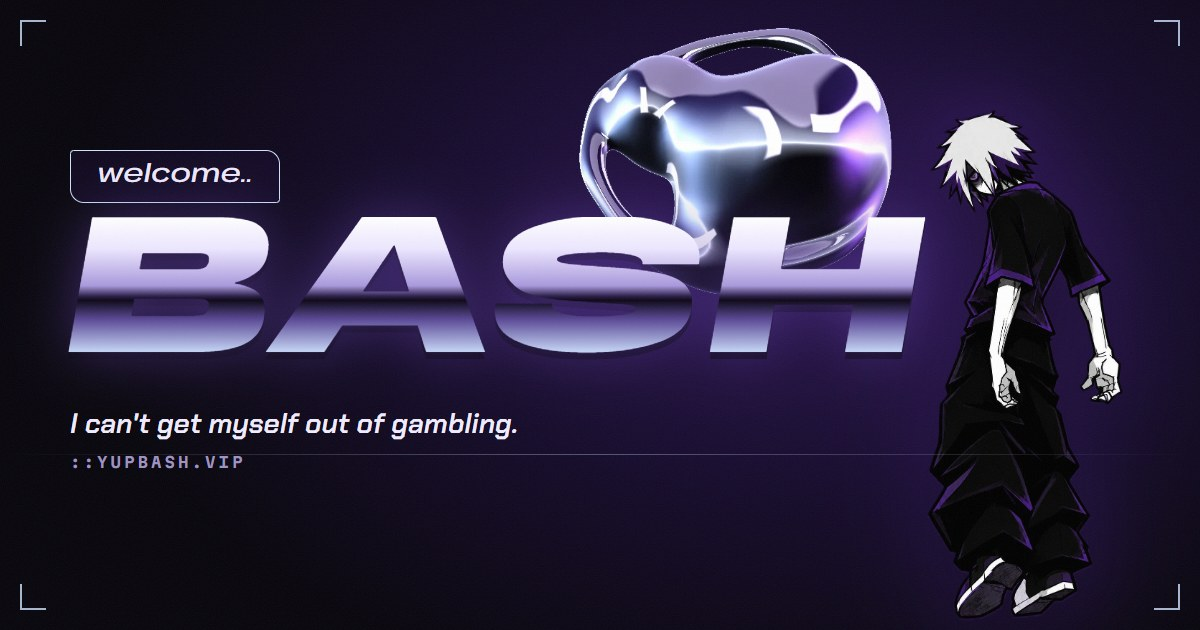
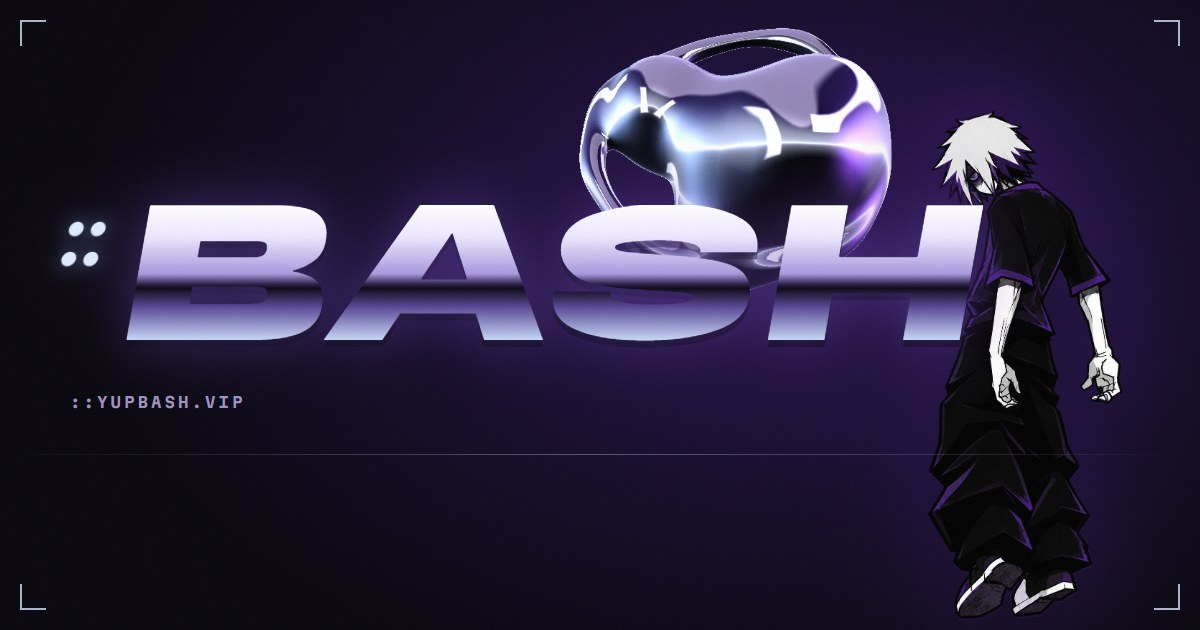
Minimal ':: START' gate button and a cleaner hero (phase 3 feedback)

Changed region(s): [[0.0308, 0.2413, 0.8325, 0.573], [0.0617, 0.6032, 0.4317, 0.6937], [0.0617, 0.7238, 0.2158, 0.754]]

diff --git a/assets/css/base.css b/assets/css/base.css
@@ -213,16 +213,26 @@ html.menu-open .menu-list li:nth-child(5){animation-delay:.2s}
 .gate-c.d{right:18px;bottom:18px;border-bottom-width:1.5px;border-right-width:1.5px;transform-origin:100% 100%}
 .gate.booting .gate-c{transform:scale(1.6)}
 .gate-inner{display:flex;flex-direction:column;align-items:center;gap:34px;text-align:center}
-.gate-tab{margin:0;padding:7px 26px 8px;border:1.5px solid var(--nc-accent);border-radius:4px 14px 4px 14px;background:var(--nc-tabfill);
-  font-family:var(--nc-font-display);font-style:italic;font-stretch:130%;font-weight:500;font-size:clamp(15px,1.6vw,22px)}
-.gate-enter{font-size:clamp(16px,1.6vw,20px);animation:ncPulse 2.2s ease-in-out infinite}
-@keyframes ncPulse{0%,100%{box-shadow:0 0 0 0 rgba(207,226,255,0),0 12px 40px -12px var(--nc-accent-glow)}50%{box-shadow:0 0 0 8px rgba(207,226,255,.08),0 12px 50px -8px var(--nc-accent-glow)}}
+/* ":: ▷START" — wordmark-style button: chrome dots, an outlined play triangle that breathes, START in chrome type. */
+.gate-start{display:inline-flex;align-items:center;gap:.14em;padding:.12em .2em;border:0;background:none;color:var(--nc-ink);cursor:pointer;
+  font-family:var(--nc-font-display);font-style:italic;font-stretch:150%;font-weight:900;font-size:clamp(46px,7.4vw,104px);line-height:.9;letter-spacing:-.02em;
+  filter:drop-shadow(0 0 24px rgba(139,92,246,.35)) drop-shadow(0 5px 0 rgba(0,0,0,.55))}
+.gate-colons{flex:none;width:.2em;height:.27em;margin-right:.06em;fill:url(#g-ice);transform:skewX(-14deg);filter:drop-shadow(0 0 8px var(--nc-accent-glow))}
+.gate-play{flex:none;width:.52em;height:.6em;overflow:visible;transform:skewX(-8deg);transition:transform .35s var(--nc-ease)}
+.gate-play path{fill:transparent;stroke:var(--nc-accent);stroke-width:2.2;stroke-linejoin:round;vector-effect:non-scaling-stroke;
+  filter:drop-shadow(0 0 6px var(--nc-accent-glow));transition:fill .3s;animation:ncBreathe 2.4s ease-in-out infinite}
+@keyframes ncBreathe{50%{opacity:.35}}
+.gate-start-word{display:block;padding-right:.06em}
+.gate-start:hover .gate-play,.gate-start:focus-visible .gate-play{transform:skewX(-8deg) translateX(.08em)}
+.gate-start:hover .gate-play path{fill:var(--nc-accent);animation:none}
+.gate-start:focus-visible .gate-play path{animation:none}
+.gate-start:focus-visible{outline:none}
 .gate-silent{padding:6px 10px;border:0;background:none;color:var(--nc-hud);cursor:pointer;
   font:500 10.5px/1 var(--nc-font-mono);letter-spacing:.18em;text-transform:uppercase;text-decoration:underline;text-underline-offset:4px}
 .gate-silent:hover{color:var(--nc-accent)}
 .gate-boot{min-height:7.6em;min-width:17em;margin:0;font:500 11px/1.5 var(--nc-font-mono);letter-spacing:.06em;color:var(--nc-accent);text-align:left;white-space:pre;
   text-shadow:0 0 8px var(--nc-accent-glow)}
-.gate.booting .gate-enter,.gate.booting .gate-silent,.gate.booting .gate-tab{opacity:0;pointer-events:none;transition:opacity .25s}
+.gate.booting .gate-start,.gate.booting .gate-silent{opacity:0;pointer-events:none;transition:opacity .25s}
 .gate.dropping{background:rgba(6,4,11,.35)}
 .gate.leaving{opacity:0}
 @media (prefers-reduced-motion:reduce){

diff --git a/assets/css/home.css b/assets/css/home.css
@@ -12,14 +12,6 @@ main{position:relative;z-index:2}
 /* ============ 01 · HOME ============ */
 .sec-home{overflow:hidden;padding-top:0;padding-bottom:0}
 .hero{position:relative;z-index:3;width:min(64vw,1000px)}
-.tabrow{display:flex;align-items:center}
-.tab{
-  position:relative;padding:8px 30px 9px 36px;white-space:nowrap;color:var(--nc-ink);
-  font-family:var(--nc-font-display);font-style:italic;font-stretch:130%;font-weight:500;font-size:clamp(14px,1.45vw,22px);
-}
-.tab svg{position:absolute;inset:0;width:100%;height:100%;overflow:visible;z-index:-1}
-.tab path{fill:var(--nc-tabfill);stroke:var(--nc-accent);stroke-width:1.5;vector-effect:non-scaling-stroke}
-.tabline{flex:1;height:1.5px;margin-left:-1px;background:linear-gradient(90deg,var(--nc-accent),transparent)}
 .word{
   position:relative;display:flex;align-items:flex-start;margin:10px 0 0 -.03em;user-select:none;
   font-family:var(--nc-font-display);font-style:italic;font-stretch:150%;font-weight:900;
@@ -34,9 +26,6 @@ main{position:relative;z-index:2}
 .word .wstroke{-webkit-text-stroke:1.4px rgba(255,255,255,.32)}
 .word .spec{mix-blend-mode:overlay;-webkit-background-clip:text;background-clip:text;
   background-image:radial-gradient(circle at var(--mx,30%) var(--my,25%),#fff 0%,rgba(255,255,255,0) 26%)}
-.tagline{margin:22px 0 0;font-style:italic;font-weight:600;font-size:clamp(17px,1.65vw,27px)}
-.meta{margin:8px 0 0;font-family:var(--nc-font-mono);font-size:10.5px;letter-spacing:.16em;text-transform:uppercase;color:var(--nc-hud)}
-.ctas{margin-top:28px;display:flex;flex-wrap:wrap;align-items:center;gap:16px}
 .character{position:absolute;right:3vw;bottom:0;height:97%;z-index:4}
 .character img{display:block;height:100%;width:auto;user-select:none;-webkit-user-drag:none;
   filter:drop-shadow(0 30px 40px rgba(0,0,0,.65)) drop-shadow(0 0 34px rgba(124,58,237,.35))}
@@ -44,7 +33,6 @@ main{position:relative;z-index:2}
 /* Hero exit while scrolling away (--hp 0 → 1, set by home.js). */
 .sec-home{--hp:0}
 .sec-home .word{transform-origin:left center;scale:calc(1 + var(--hp) * .35);opacity:calc(1 - var(--hp) * 1.3);filter:blur(calc(var(--hp) * 8px))}
-.sec-home .tabrow,.sec-home .tagline,.sec-home .meta,.sec-home .ctas{opacity:calc(1 - var(--hp) * 1.6)}
 .sec-home .character{translate:calc(var(--hp) * -12vw + var(--tilt-x,0px)) calc(var(--hp) * 6vh + var(--tilt-y,0px));opacity:calc(1 - var(--hp) * .8)}
 .character.poke img{animation:ncPoke .6s ease}
 @keyframes ncPoke{0%,100%{transform:none}25%{transform:rotate(-3deg) scale(1.04)}50%{transform:rotate(2deg) scale(1.02)}75%{transform:rotate(-1deg) scale(1.01)}}
@@ -255,9 +243,6 @@ html.vids-3d .vid-card.is-front{filter:none}
   .sec-home{justify-content:flex-end;padding-bottom:12vh}
   .hero{width:auto;z-index:5}
   .word{font-size:15.5vw}
-  .tagline{font-size:16px;margin-top:14px}
-  .meta{font-size:9px;letter-spacing:.1em}
-  .ctas{margin-top:18px;gap:10px}
   .character{right:-16vw;height:60%;z-index:3}
   .about-grid{grid-template-columns:1fr}
   .profile-card{grid-template-columns:84px 1fr}

diff --git a/tools/og.html b/tools/og.html
@@ -14,13 +14,11 @@
   .og::after{content:"";position:absolute;left:0;right:0;top:72%;height:1px;background:linear-gradient(90deg,transparent,rgba(207,226,255,.35),transparent)}
   .sculpt{position:absolute;right:150px;top:-40px;width:620px;height:620px;object-fit:contain}
   .char{position:absolute;right:40px;bottom:0;height:600px;filter:drop-shadow(0 30px 40px rgba(0,0,0,.65)) drop-shadow(0 0 34px rgba(124,58,237,.35))}
-  .copy{position:absolute;left:70px;top:150px}
-  .tab{display:inline-block;padding:7px 26px 8px;border:1.5px solid var(--nc-accent);border-radius:4px 14px 4px 14px;background:var(--nc-tabfill);
-    font-family:var(--nc-font-display);font-style:italic;font-stretch:130%;font-weight:500;font-size:24px;color:var(--nc-ink)}
-  .word{margin:14px 0 0 -6px;font-family:var(--nc-font-display);font-style:italic;font-stretch:150%;font-weight:900;font-size:200px;line-height:.8;letter-spacing:-.02em;
+  .copy{position:absolute;left:70px;top:205px}
+  .colons{width:.2em;height:.27em;margin:.07em .09em 0 0;fill:#dfe9ff;transform:skewX(-14deg);vertical-align:top;filter:drop-shadow(0 0 9px rgba(140,185,255,.5))}
+  .word{display:flex;align-items:flex-start;margin:0 0 0 -6px;font-family:var(--nc-font-display);font-style:italic;font-stretch:150%;font-weight:900;font-size:200px;line-height:.8;letter-spacing:-.02em;
     filter:drop-shadow(0 0 28px rgba(139,92,246,.4)) drop-shadow(0 7px 0 rgba(0,0,0,.55))}
-  .tag{margin:26px 0 0;font-family:"Chakra Petch",sans-serif;font-style:italic;font-weight:600;font-size:28px;color:var(--nc-ink)}
-  .site{margin:10px 0 0;font:600 15px/1 var(--nc-font-mono);letter-spacing:.2em;text-transform:uppercase;color:var(--nc-hud)}
+  .site{margin:30px 0 0;font:600 15px/1 var(--nc-font-mono);letter-spacing:.2em;text-transform:uppercase;color:var(--nc-hud)}
   .c{position:absolute;width:26px;height:26px;border:0 solid var(--nc-accent);opacity:.8}
   .c.a{left:20px;top:20px;border-top-width:2px;border-left-width:2px}.c.b{right:20px;top:20px;border-top-width:2px;border-right-width:2px}
   .c.d{left:20px;bottom:20px;border-bottom-width:2px;border-left-width:2px}.c.e{right:20px;bottom:20px;border-bottom-width:2px;border-right-width:2px}
@@ -31,9 +29,7 @@
   <img class="sculpt" src="/assets/chrome-fallback.webp" alt="">
   <img class="char" src="/assets/character.webp" alt="">
   <div class="copy">
-    <span class="tab">welcome..</span>
-    <div class="word chrome-text">BASH</div>
-    <p class="tag">I can't get myself out of gambling.</p>
+    <div class="word"><svg class="colons" viewBox="0 0 20 27" aria-hidden="true"><circle cx="4" cy="5" r="3.6"/><circle cx="15" cy="5" r="3.6"/><circle cx="4" cy="20" r="3.6"/><circle cx="15" cy="20" r="3.6"/></svg><span class="chrome-text">BASH</span></div>
     <p class="site">::yupbash.vip</p>
   </div>
   <span class="c a"></span><span class="c b"></span><span class="c d"></span><span class="c e"></span>

diff --git a/index.html b/index.html
@@ -118,8 +118,7 @@
   <span class="gate-c a" aria-hidden="true"></span><span class="gate-c b" aria-hidden="true"></span>
   <span class="gate-c c" aria-hidden="true"></span><span class="gate-c d" aria-hidden="true"></span>
   <div class="gate-inner">
-    <p class="gate-tab">welcome..</p>
-    <button id="enterBtn" class="gel gate-enter" type="button"><span>ENTER ▸</span></button>
+    <button id="enterBtn" class="gate-start" type="button" data-label="START"><svg class="gate-colons" viewBox="0 0 20 27" aria-hidden="true" focusable="false"><circle cx="4" cy="5" r="3.6"/><circle cx="15" cy="5" r="3.6"/><circle cx="4" cy="20" r="3.6"/><circle cx="15" cy="20" r="3.6"/></svg><svg class="gate-play" viewBox="0 0 26 30" aria-hidden="true" focusable="false"><path d="M3 3 L23 15 L3 27 Z"/></svg><span class="gate-start-word chrome-text">START</span></button>
     <button id="enterSilent" class="gate-silent" type="button">enter silently</button>
     <pre id="bootLines" class="gate-boot" aria-live="polite"></pre>
   </div>
@@ -190,20 +189,10 @@
 <main id="main">
   <section id="home" class="sec sec-home" aria-label="Home">
     <div class="hero">
-      <div class="tabrow">
-        <div class="tab"><svg viewBox="0 0 200 40" preserveAspectRatio="none" aria-hidden="true" focusable="false"><path d="M24 1 H184 Q199 1 199 16 V24 Q199 39 184 39 H1 Z"/></svg>welcome..</div>
-        <span class="tabline" aria-hidden="true"></span>
-      </div>
       <h1 id="word" class="word" aria-label="BASH">
         <svg class="colons" viewBox="0 0 20 27" aria-hidden="true" focusable="false"><circle cx="4" cy="5" r="3.6"/><circle cx="15" cy="5" r="3.6"/><circle cx="4" cy="20" r="3.6"/><circle cx="15" cy="20" r="3.6"/></svg>
         <span class="stack" aria-hidden="true"><span class="layer chrome-text">BASH</span><span class="wstroke">BASH</span><span class="spec">BASH</span></span>
       </h1>
-      <p class="tagline">I can't get myself out of gambling.</p>
-      <p class="meta">Content creator — TikTok / Instagram / Discord</p>
-      <div class="ctas">
-        <a class="gel" href="#videos" data-magnet><span>Latest videos</span><i aria-hidden="true">&gt;&gt;&gt;</i></a>
-        <a class="brk" href="#gamble" data-magnet>Click to gamble</a>
-      </div>
     </div>
     <div class="character" aria-hidden="true"><img src="/assets/character.webp" alt="" draggable="false"></div>
   </section>

diff --git a/tests/test_hero.py b/tests/test_hero.py
@@ -4,8 +4,11 @@ import unittest
 
 from tests.harness import SiteTestCase
 
+# The hero has no buttons any more (YupBash, phase 3 checkpoint): the magnet is checked on the gamble button.
+MAGNET = "#gamble a.gel"
+TO_MAGNET = "document.querySelector('#gamble a.gel').scrollIntoView({ block: 'center', behavior: 'instant' })"
 MESSAGES = ["Stop that.", "Bro, stop.", "Alright, Don't do that.", "Hey!"]
-TX = "() => { const m = getComputedStyle(document.querySelector('#home .gel')).transform; " \
+TX = "() => { const m = getComputedStyle(document.querySelector('#gamble a.gel')).transform; " \
      "return m === 'none' ? 0 : new DOMMatrix(m).m41; }"
 
 
@@ -39,9 +42,17 @@ class HeroTest(SiteTestCase):
         page.wait_for_function("() => window.__bubbles.length > 0", timeout=5000)
         self.assertIn(page.evaluate("window.__bubbles[0]"), MESSAGES)
 
+    def test_hero_is_minimal(self):
+        page = self.open("/")
+        self.assertTrue(page.is_visible("#word"))
+        self.assertEqual(page.locator("#home .tabrow, #home .tab, #home .tagline, #home .meta, #home .ctas, #home a, #home button").count(), 0)
+        self.assertNotIn("welcome..", page.text_content("#home"))
+
     def test_magnetic_button_moves(self):
         page = self.open("/")
-        box = page.locator("#home .gel").bounding_box()
+        page.evaluate(TO_MAGNET)
+        page.wait_for_timeout(300)
+        box = page.locator(MAGNET).bounding_box()
         page.mouse.move(box["x"] - 40, box["y"] + box["height"] / 2, steps=6)
         page.wait_for_timeout(500)
         tx = page.evaluate(TX)
@@ -50,7 +61,9 @@ class HeroTest(SiteTestCase):
 
     def test_magnetic_off_with_reduced_motion(self):
         page = self.open("/", reduced_motion=True)
-        box = page.locator("#home .gel").bounding_box()
+        page.evaluate(TO_MAGNET)
+        page.wait_for_timeout(300)
+        box = page.locator(MAGNET).bounding_box()
         page.mouse.move(box["x"] - 40, box["y"] + box["height"] / 2, steps=6)
         page.wait_for_timeout(500)
         self.assertEqual(page.evaluate(TX), 0)

diff --git a/tests/test_mercure.py b/tests/test_mercure.py
@@ -21,11 +21,13 @@ class MercureTest(SiteTestCase):
     def test_hover_wraps_then_unwraps(self):
         page = self.open("/")
         page.evaluate(INIT)
-        box = page.locator("#home .gel").bounding_box()
+        page.evaluate("document.querySelector('#gamble a.gel').scrollIntoView({ block: 'center', behavior: 'instant' })")
+        page.wait_for_timeout(300)
+        box = page.locator("#gamble a.gel").bounding_box()
         page.mouse.move(box["x"] + box["width"] / 2, box["y"] + box["height"] / 2, steps=8)
         page.wait_for_timeout(700)
         self.assertGreater(page.evaluate(STATE)["wrap"], 0.9)
-        self.assertTrue(page.evaluate("window.__m.state().target === document.querySelector('#home .gel')"))
+        self.assertTrue(page.evaluate("window.__m.state().target === document.querySelector('#gamble a.gel')"))
         page.mouse.move(760, 760, steps=8)
         page.wait_for_timeout(900)
         self.assertLess(page.evaluate(STATE)["wrap"], 0.1)
@@ -45,9 +47,9 @@ class MercureTest(SiteTestCase):
         page.evaluate(INIT)
         for _ in range(12):
             page.keyboard.press("Tab")
-            if page.evaluate("document.activeElement === document.querySelector('#home .gel')"):
+            if page.evaluate("document.activeElement === document.getElementById('menuBtn')"):
                 break
-        self.assertTrue(page.evaluate("document.activeElement === document.querySelector('#home .gel')"))
+        self.assertTrue(page.evaluate("document.activeElement === document.getElementById('menuBtn')"))
         self.assertTrue(page.evaluate("window.__m.state().target === document.activeElement"))
 
     def test_touch_hides_droplet(self):

diff --git a/tests/test_feedback_p1.py b/tests/test_feedback_p1.py
@@ -37,7 +37,9 @@ def nearest_brand(rgb):
 class FeedbackTest(SiteTestCase):
     def test_hover_shows_lock_brackets_with_label(self):
         page = self.open("/")
-        gel = page.locator("#home .gel").bounding_box()
+        page.evaluate("document.querySelector('#gamble a.gel').scrollIntoView({ block: 'center', behavior: 'instant' })")
+        page.wait_for_timeout(300)
+        gel = page.locator("#gamble a.gel").bounding_box()
         page.mouse.move(gel["x"] + gel["width"] / 2, gel["y"] + gel["height"] / 2, steps=6)
         page.wait_for_timeout(900)
         lock = page.evaluate("""() => { const l = document.querySelector('.mercure-lock'); if (!l) return null;
@@ -49,7 +51,7 @@ class FeedbackTest(SiteTestCase):
         self.assertGreaterEqual(lock["x"] + lock["w"], gel["x"] + gel["width"] + 4)
         self.assertLessEqual(lock["y"], gel["y"] - 4)
         self.assertGreaterEqual(lock["y"] + lock["h"], gel["y"] + gel["height"] + 4)
-        self.assertIn("latest videos", lock["label"].lower())
+        self.assertIn("open a case", lock["label"].lower())
         page.mouse.move(760, 760, steps=6)
         page.wait_for_timeout(900)
         self.assertLess(page.evaluate("+getComputedStyle(document.querySelector('.mercure-lock')).opacity"), 0.1)

diff --git a/tests/test_gate_audio.py b/tests/test_gate_audio.py
@@ -23,6 +23,15 @@ class GateTest(SiteTestCase):
         page.wait_for_function("() => document.activeElement && document.activeElement.id === 'enterBtn'", timeout=2000)
         self.assertTrue(page.evaluate("document.getElementById('main').hasAttribute('inert')"))
 
+    def test_start_button_is_minimal(self):
+        page = self.open("/", entered=False)
+        self.assertEqual(" ".join(page.text_content("#enterBtn").split()), "START")
+        self.assertEqual(page.locator("#enterBtn svg.gate-play").count(), 1)
+        self.assertEqual(page.locator("#enterBtn svg.gate-colons").count(), 1)
+        self.assertFalse(page.evaluate("document.getElementById('enterBtn').classList.contains('gel')"))
+        self.assertEqual(page.locator("#gate .gate-tab").count(), 0)
+        self.assertNotIn("welcome..", page.text_content("#gate"))
+
     def test_enter_with_sound(self):
         page = self.open("/", entered=False, init_script=RECORD)
         page.click("#enterBtn")

diff --git a/tests/test_foundation.py b/tests/test_foundation.py
@@ -28,8 +28,6 @@ class FoundationTest(SiteTestCase):
     def test_copy_is_exact(self):
         page = self.open("/")
         text = lambda sel: page.eval_on_selector(sel, "el => el.textContent.trim()")
-        self.assertEqual(text(".tagline"), "I can't get myself out of gambling.")
-        self.assertEqual(text(".meta"), "Content creator — TikTok / Instagram / Discord")
         self.assertEqual(text("#outro .outro-title"), "Don't miss the next one.")
         self.assertEqual(text("#outro .signature"), "BASH · 2024–2026")
         gamble = text("#gamble")

diff --git a/docs/superpowers/specs/2026-11-09-y2k-nocturne-chrome-design.md b/docs/superpowers/specs/2026-11-09-y2k-nocturne-chrome-design.md
@@ -97,7 +97,7 @@ Le rendu validé (hero, shader, curseur Mercure) existe en prototype local, non 
 Le HUD reste fixe pendant tout le scroll : menu, indicateur `0X / 05 — NOM` + barre de progression, bouton `SFX ON/OFF`, réseaux.
 
 ### 0 · Écran ENTER + intro (1re visite uniquement)
-- Écran noir, coins du HUD, onglet « welcome.. », bouton chromé pulsant **« ENTER ▸ »**, lien discret *enter silently*.
+- Écran noir, coins du HUD, bouton épuré **« :: ▷START »** (points chromés, triangle en contour qui respire et se remplit au survol, START en lettres chromées, d'après le croquis de YupBash au checkpoint de la phase 3), lien discret *enter silently*.
 - **ENTER** : débloque l'audio, active les SFX, puis lance l'intro (≈ 2 s) **avec son** : lignes « système » qui s'écrivent avec un tic chacune (ton humoristique, ex. `vibes: questionable ✓`), note montante quand les coins se tracent, « bloop » liquide quand la goutte de chrome tombe, basse sourde quand la page s'ouvre.
 - **enter silently** : même intro, sans son ; SFX coupés.
 - Sur iPhone, ce même tap demande l'autorisation d'inclinaison.
@@ -105,7 +105,7 @@ Le HUD reste fixe pendant tout le scroll : menu, indicateur `0X / 05 — NOM` + 
 - Le contenu est déjà dans le HTML sous l'écran (indexable par Google).
 
 ### 01 · HOME
-- Hero validé : onglet « welcome.. », `::` + **BASH** chromé (le reflet suit le pointeur), accroche « I can't get myself out of gambling. », ligne mono « Content creator — TikTok / Instagram / Discord », boutons « Latest videos >>> » (gel) et « Click to gamble » (crochets), perso debout **devant** le mot, sculpture de chrome (gouttes + anneau en orbite) derrière, au niveau de sa tête et de ses épaules.
+- Hero épuré (demande de YupBash au checkpoint de la phase 3 : onglet « welcome.. », accroche, ligne mono et boutons retirés) : `::` + **BASH** chromé (le reflet suit le pointeur), perso debout **devant** le mot, sculpture de chrome (gouttes + anneau en orbite) derrière, au niveau de sa tête et de ses épaules.
 - Au scroll : BASH s'étire et se dissout, le perso glisse et s'estompe, la sculpture « coule » vers la section suivante.
 - Easter egg conservé : 5 clics rapides sur le perso → bulle (« Stop that. », « Bro, stop. », « Alright, Don't do that. », « Hey! »), détection sur la silhouette.
 
